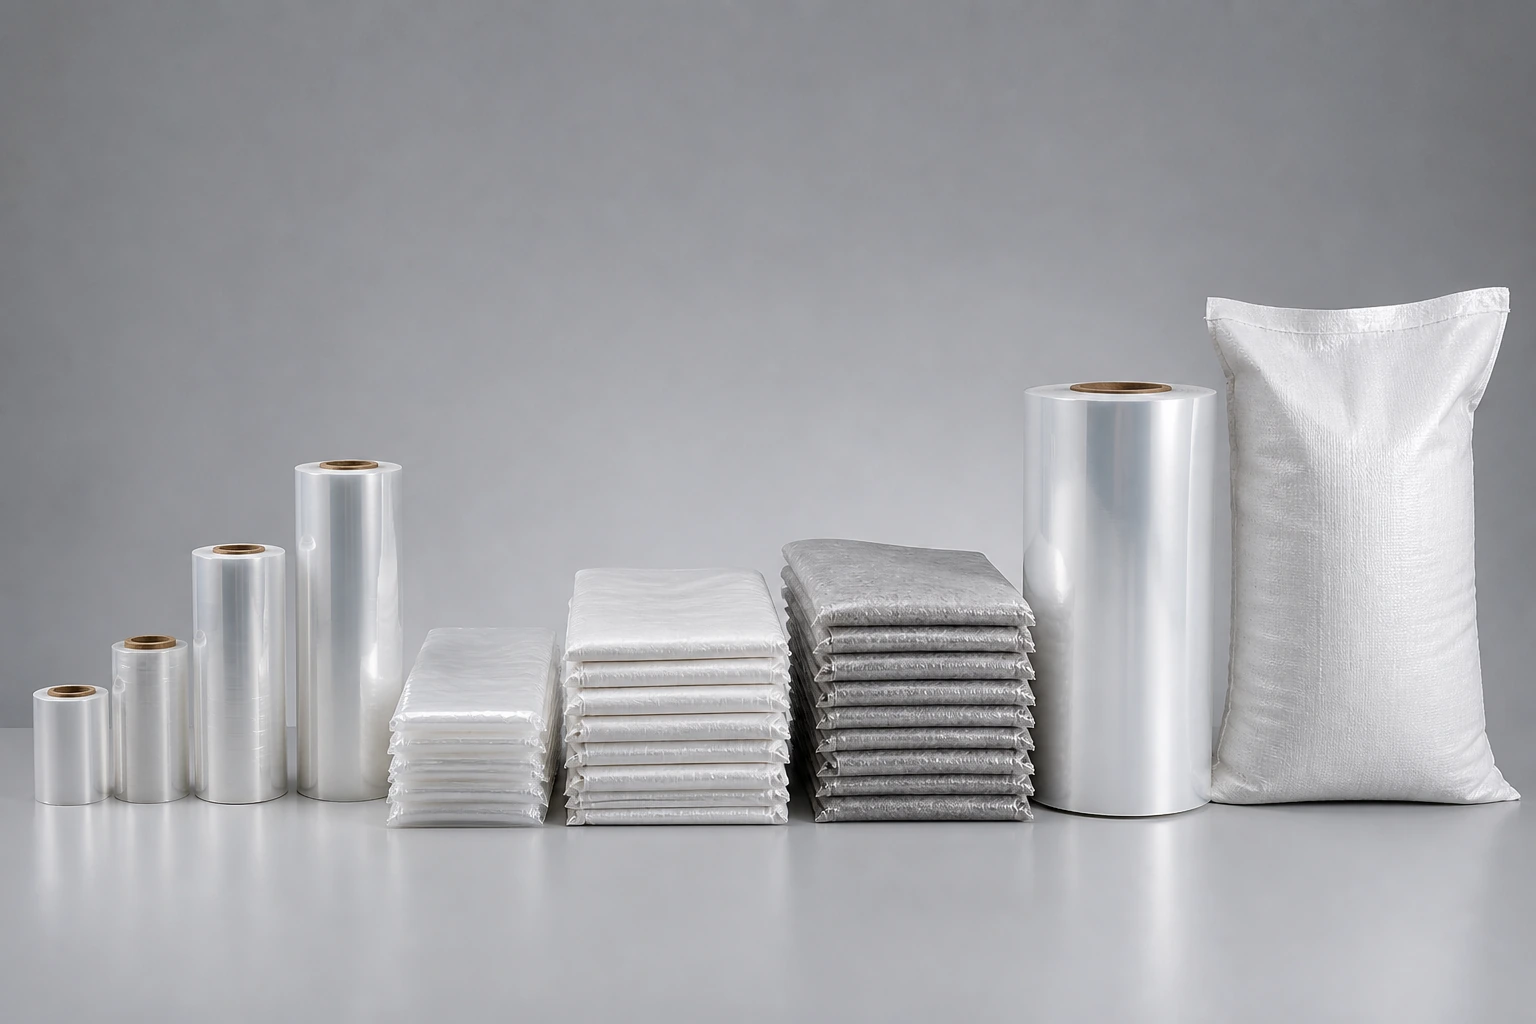
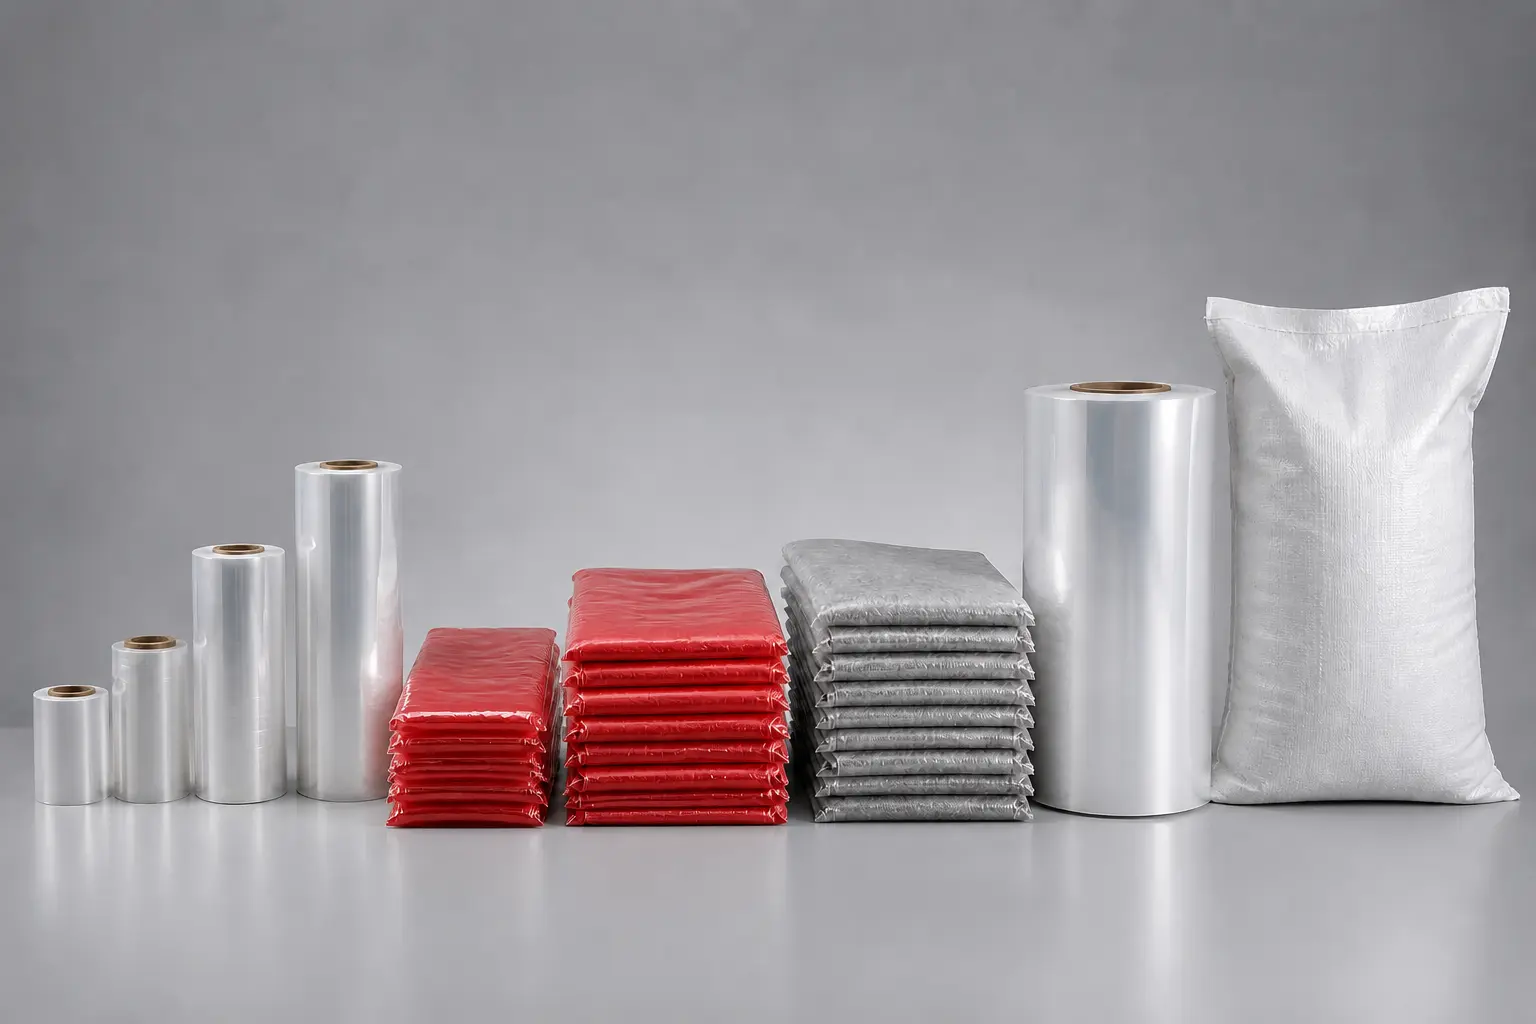
correções

Changed region(s): [[0.2188, 0.5312, 0.6875, 0.8125]]

diff --git a/app/page.tsx b/app/page.tsx
@@ -14,6 +14,11 @@ import { siteContent, type HeroSequenceManifest } from "../lib/site-content";
 
 const telHref = "tel:[phone redacted]";
 const mailHref = "mailto:[email redacted]";
+const primaryHeroImage = {
+  desktop: "/site-images/hero-section.webp",
+  mobile: "/site-images/hero-section-mobile.webp",
+  alt: "Extrusora industrial produzindo filme plástico azul em ambiente fabril.",
+};
 const heroQuoteSideImage = {
   src: "/site-images/hero-quote-side-industrial.webp?v=2",
   alt: "Conjunto premium de bobinas transparentes da linha de embalagens Plasmaster em fundo neutro.",
@@ -93,7 +98,85 @@ export default async function HomePage() {
       <SiteHeader items={navItems} ctaLabel={headerCtaLabel} />
 
       <main className="relative w-full max-w-full overflow-x-clip">
-        <section id="home" className="scroll-mt-28 pt-5 sm:pt-6 lg:pt-4">
+        <section id="home" className="scroll-mt-28">
+          <div className="relative left-1/2 min-h-[100svh] w-screen -translate-x-1/2 overflow-hidden bg-[var(--accent-deep)] text-white lg:min-h-[100dvh]">
+            <Image
+              src={primaryHeroImage.desktop}
+              alt={primaryHeroImage.alt}
+              fill
+              priority
+              sizes="(min-width: 1024px) 100vw, 0px"
+              className="hidden object-cover object-center lg:block"
+            />
+            <Image
+              src={primaryHeroImage.mobile}
+              alt=""
+              fill
+              priority
+              sizes="(max-width: 1023px) 100vw, 0px"
+              className="object-cover object-center lg:hidden"
+            />
+
+            <div className="pointer-events-none absolute inset-0 bg-[linear-gradient(90deg,rgba(7,11,18,0.9)_0%,rgba(7,11,18,0.68)_30%,rgba(7,11,18,0.2)_58%,rgba(7,11,18,0.42)_100%),linear-gradient(180deg,rgba(7,11,18,0.74)_0%,rgba(7,11,18,0.18)_38%,rgba(7,11,18,0.82)_100%)] lg:bg-[linear-gradient(90deg,rgba(7,11,18,0.92)_0%,rgba(7,11,18,0.7)_28%,rgba(7,11,18,0.18)_58%,rgba(7,11,18,0.34)_100%),linear-gradient(180deg,rgba(7,11,18,0.62)_0%,rgba(7,11,18,0.12)_40%,rgba(7,11,18,0.76)_100%)]" />
+            <div className="pointer-events-none absolute inset-0 bg-[linear-gradient(rgba(244,243,238,0.08)_1px,transparent_1px),linear-gradient(90deg,rgba(244,243,238,0.08)_1px,transparent_1px)] bg-[length:96px_96px] opacity-35" />
+
+            <div className="site-shell relative z-10 flex min-h-[100svh] flex-col justify-between py-6 sm:py-7 lg:min-h-[100dvh] lg:py-9">
+              <div className="flex items-center justify-between gap-5">
+                <Image
+                  src="/plasmaster-logo-hero.png"
+                  alt="Plasmaster"
+                  width={494}
+                  height={119}
+                  priority
+                  className="h-auto w-[174px] brightness-0 invert sm:w-[208px]"
+                />
+                <span className="hidden border border-white/16 px-4 py-2 text-[0.68rem] font-medium uppercase tracking-[0.26em] text-white/68 sm:inline-flex">
+                  Joinville/SC desde 2005
+                </span>
+              </div>
+
+              <div className="grid gap-8 pb-16 pt-20 sm:pt-24 lg:grid-cols-[minmax(0,0.92fr)_minmax(18rem,0.38fr)] lg:items-end lg:gap-10 lg:pb-16 lg:pt-24">
+                <div className="max-w-[48rem]">
+                  <p className="text-[0.72rem] font-medium uppercase tracking-[0.28em] text-[rgba(0,201,167,0.9)]">
+                    Soluções integradas de embalagens
+                  </p>
+                  <h1 className="mt-5 max-w-[13ch] text-5xl leading-[0.92] text-balance sm:text-6xl md:text-7xl lg:text-7xl xl:text-[5.75rem] 2xl:text-8xl">
+                    Embalagens plásticas para indústria e comércio.
+                  </h1>
+                  <p className="mt-6 max-w-[40rem] text-base leading-8 text-white/78 sm:text-lg lg:text-xl lg:leading-9">
+                    Plásticos flexíveis, proteção logística e embalagens rígidas em um único parceiro, com atendimento consultivo para indicar a linha certa para sua operação.
+                  </p>
+
+                  <div className="mt-8 flex flex-wrap items-center gap-3">
+                    <a
+                      href={hero.intro.primaryAction.href}
+                      className="solid-button min-w-[12.5rem] border border-[rgba(244,243,238,0.2)]"
+                    >
+                      {hero.intro.primaryAction.label}
+                    </a>
+                    <a
+                      href={hero.intro.secondaryAction.href}
+                      className="inline-flex min-h-[3.25rem] items-center justify-center rounded-full border border-white/34 px-5 py-3 text-sm font-medium text-white transition duration-500 ease-out hover:-translate-y-px hover:border-white/62 hover:bg-white/10 active:translate-y-px active:scale-[0.99]"
+                    >
+                      {hero.intro.secondaryAction.label}
+                    </a>
+                  </div>
+                </div>
+
+                <div className="hidden max-w-[28rem] border-t border-white/20 pt-5 lg:block lg:justify-self-end">
+                  <p className="text-sm uppercase tracking-[0.22em] text-white/52">
+                    O que entregamos
+                  </p>
+                  <ul className="mt-4 grid gap-3 text-[0.98rem] leading-7 text-white/82">
+                    <li>Plásticos flexíveis para rotinas industriais e comerciais.</li>
+                    <li>Materiais de proteção, fechamento e estabilidade logística.</li>
+                    <li>Embalagens rígidas para aplicações de maior exigência.</li>
+                  </ul>
+                </div>
+              </div>
+            </div>
+          </div>
+
           <div>
             <div className="relative lg:left-1/2 lg:right-1/2 lg:-mx-[50vw] lg:w-screen">
               <ScrollSequenceHero
@@ -121,7 +204,7 @@ export default async function HomePage() {
                 </div>
 
                 <div className="space-y-5">
-                  <h1 className="section-heading max-w-[12ch] text-balance">{hero.intro.title}</h1>
+                  <h2 className="section-heading max-w-[12ch] text-balance">{hero.intro.title}</h2>
                   <p className="section-copy">{hero.intro.description}</p>
                 </div>
 

diff --git a/components/scroll-sequence-hero.tsx b/components/scroll-sequence-hero.tsx
@@ -1,6 +1,7 @@
 "use client";
 
 import { type CSSProperties, useEffect, useRef, useState } from "react";
+import { renderBrandText } from "../lib/brand-format";
 import type {
   HeroAction,
   HeroBeat,
@@ -38,6 +39,8 @@ const MOBILE_SCROLL_VH = 320;
 const DESKTOP_FRAME_PREFETCH_RADIUS = 22;
 const MOBILE_FRAME_PREFETCH_RADIUS = 14;
 const FRAME_EVICT_BUFFER = 10;
+const CENTER_FRAME_ALIGNMENT = 0.5;
+const DESKTOP_FRAME_VERTICAL_ALIGNMENT = 0.35;
 
 function clamp(value: number, min: number, max: number) {
   return Math.min(max, Math.max(min, value));
@@ -52,6 +55,7 @@ function drawCoverFrame(
   image: HTMLImageElement,
   targetWidth: number,
   targetHeight: number,
+  verticalAlignment = CENTER_FRAME_ALIGNMENT,
 ) {
   const imageWidth = image.naturalWidth || image.width;
   const imageHeight = image.naturalHeight || image.height;
@@ -64,7 +68,7 @@ function drawCoverFrame(
   const drawWidth = imageWidth * scale;
   const drawHeight = imageHeight * scale;
   const offsetX = (targetWidth - drawWidth) / 2;
-  const offsetY = (targetHeight - drawHeight) / 2;
+  const offsetY = -Math.max(0, drawHeight - targetHeight) * clamp(verticalAlignment, 0, 1);
 
   ctx.drawImage(image, offsetX, offsetY, drawWidth, drawHeight);
 }
@@ -207,6 +211,9 @@ export default function ScrollSequenceHero({
       ? DESKTOP_FRAME_PREFETCH_RADIUS
       : MOBILE_FRAME_PREFETCH_RADIUS;
     const frameEvictRadius = framePrefetchRadius + FRAME_EVICT_BUFFER;
+    const frameVerticalAlignment = isDesktop
+      ? DESKTOP_FRAME_VERTICAL_ALIGNMENT
+      : CENTER_FRAME_ALIGNMENT;
 
     cacheRef.current = cache;
     currentFrameRef.current = -1;
@@ -265,7 +272,13 @@ export default function ScrollSequenceHero({
       currentFrameRef.current = index;
       const pixelRatio = Math.max(1, window.devicePixelRatio || 1);
       context.setTransform(pixelRatio, 0, 0, pixelRatio, 0, 0);
-      drawCoverFrame(context, image, canvas.width / pixelRatio, canvas.height / pixelRatio);
+      drawCoverFrame(
+        context,
+        image,
+        canvas.width / pixelRatio,
+        canvas.height / pixelRatio,
+        frameVerticalAlignment,
+      );
     };
 
     const renderFrameAtIndex = (index: number, force = false) => {
@@ -499,7 +512,8 @@ export default function ScrollSequenceHero({
           height: "100dvh",
         }
       : {
-          aspectRatio: `${activeVariant.width} / ${activeVariant.height}`,
+          minHeight: "100dvh",
+          height: "100dvh",
         }
   ) as CSSProperties;
 
@@ -524,8 +538,8 @@ export default function ScrollSequenceHero({
     : "block h-full w-full";
 
   const overlayClassName = isDesktop
-    ? "pointer-events-none absolute inset-0 bg-[radial-gradient(circle_at_50%_52%,rgba(0,201,167,0.08),transparent_24%),radial-gradient(circle_at_16%_22%,rgba(245,166,35,0.14),transparent_28%),linear-gradient(90deg,rgba(18,21,31,0.58)_0%,rgba(18,21,31,0.22)_30%,rgba(18,21,31,0.08)_54%,rgba(18,21,31,0.48)_100%),linear-gradient(180deg,rgba(18,21,31,0.18)_0%,rgba(18,21,31,0.1)_22%,rgba(18,21,31,0.12)_58%,rgba(18,21,31,0.64)_100%)]"
-    : "pointer-events-none absolute inset-0 bg-[radial-gradient(circle_at_18%_18%,rgba(0,201,167,0.18),transparent_26%),linear-gradient(180deg,rgba(18,21,31,0.04),rgba(18,21,31,0.48))]";
+    ? "pointer-events-none absolute inset-0 bg-[radial-gradient(ellipse_at_center,rgba(18,21,31,0)_36%,rgba(18,21,31,0.28)_68%,rgba(18,21,31,0.78)_100%),radial-gradient(circle_at_50%_52%,rgba(0,201,167,0.08),transparent_24%),radial-gradient(circle_at_16%_22%,rgba(245,166,35,0.14),transparent_28%),linear-gradient(90deg,rgba(18,21,31,0.58)_0%,rgba(18,21,31,0.22)_30%,rgba(18,21,31,0.08)_54%,rgba(18,21,31,0.48)_100%),linear-gradient(180deg,rgba(18,21,31,0.18)_0%,rgba(18,21,31,0.1)_22%,rgba(18,21,31,0.12)_58%,rgba(18,21,31,0.64)_100%)]"
+    : "pointer-events-none absolute inset-0 bg-[radial-gradient(ellipse_at_center,rgba(18,21,31,0)_34%,rgba(18,21,31,0.24)_68%,rgba(18,21,31,0.7)_100%),radial-gradient(circle_at_18%_18%,rgba(0,201,167,0.18),transparent_26%),linear-gradient(180deg,rgba(18,21,31,0.04),rgba(18,21,31,0.48))]";
 
   const beatCardClassName = isDesktop
     ? "pointer-events-none rounded-[1.85rem] border border-white/10 bg-[rgba(18,21,31,0.28)] p-5 text-white shadow-[inset_0_1px_0_rgba(244,243,238,0.12),0_28px_64px_-42px_rgba(18,21,31,0.75)] backdrop-blur-[18px] md:p-6"
@@ -555,7 +569,7 @@ export default function ScrollSequenceHero({
 
               <div className="pointer-events-none absolute inset-x-4 top-4 flex items-center justify-between gap-3 md:inset-x-8 md:top-7 xl:inset-x-[max(2rem,4vw)]">
                 <span className="rounded-full border border-white/12 bg-[rgba(18,21,31,0.18)] px-3 py-1.5 text-[0.68rem] uppercase tracking-[0.24em] text-white/72 backdrop-blur-[12px]">
-                  {badge}
+                  {renderBrandText(badge)}
                 </span>
               </div>
 
@@ -567,16 +581,16 @@ export default function ScrollSequenceHero({
                 >
                   <div className="flex items-center gap-4">
                     <span className="text-[0.7rem] font-medium uppercase tracking-[0.3em] text-white/72">
-                      {finalCard.eyebrow}
+                      {renderBrandText(finalCard.eyebrow)}
                     </span>
                   </div>
 
                   <div className="mt-6 space-y-4">
                     <h2 className="max-w-[13ch] text-[2.8rem] leading-[0.95] tracking-[-0.055em] text-white text-balance xl:text-[3.6rem]">
-                      {finalCard.title}
+                      {renderBrandText(finalCard.title)}
                     </h2>
                     <p className="max-w-[36ch] text-[0.98rem] leading-7 text-white/76 xl:text-[1.02rem]">
-                      {finalCard.body}
+                      {renderBrandText(finalCard.body)}
                     </p>
                   </div>
 
@@ -611,9 +625,9 @@ export default function ScrollSequenceHero({
                   className={`${beatPositions[index] ?? beatPositions[0]} ${beatCardClassName}`}
                   style={beatMotion(0, beat)}
                 >
-                  <p className={beatEyebrowClassName}>{beat.eyebrow}</p>
-                  <h2 className={beatTitleClassName}>{beat.title}</h2>
-                  <p className={beatBodyClassName}>{beat.body}</p>
+                  <p className={beatEyebrowClassName}>{renderBrandText(beat.eyebrow)}</p>
+                  <h2 className={beatTitleClassName}>{renderBrandText(beat.title)}</h2>
+                  <p className={beatBodyClassName}>{renderBrandText(beat.body)}</p>
                 </div>
               ))}
             </div>

diff --git a/lib/brand-format.tsx b/lib/brand-format.tsx
@@ -1,0 +1,19 @@
+import { Fragment, type ReactNode } from "react";
+
+const LEGACY_BRAND_NAME = "Plasmaster";
+export const BRAND_NAME = "PlasMASTER";
+
+export function renderBrandText(text: string): ReactNode {
+  const segments = text.split(LEGACY_BRAND_NAME);
+
+  if (segments.length === 1) {
+    return text;
+  }
+
+  return segments.map((segment, index) => (
+    <Fragment key={index}>
+      {index > 0 ? <strong>{BRAND_NAME}</strong> : null}
+      {segment}
+    </Fragment>
+  ));
+}

diff --git a/components/interest-chapter.tsx b/components/interest-chapter.tsx
@@ -1,4 +1,5 @@
 import Image from "next/image";
+import { renderBrandText } from "../lib/brand-format";
 import type { SiteContent } from "../lib/site-content";
 import { imageBlurData } from "../lib/image-blur-data";
 
@@ -168,7 +169,7 @@ export default function InterestChapter({
                 </span>
               ))}
             </h2>
-            <p className="section-copy max-w-[64ch]">{intro.description}</p>
+            <p className="section-copy max-w-[64ch]">{renderBrandText(intro.description)}</p>
           </div>
 
           <div className="overflow-hidden rounded-full border border-[rgba(244,243,238,0.9)] bg-[rgba(244,243,238,0.62)] p-2 shadow-[0_24px_80px_-48px_rgba(18,21,31,0.34)]">
@@ -203,7 +204,7 @@ export default function InterestChapter({
                 <h3 className="max-w-[17ch] text-[clamp(2.4rem,4vw,4.8rem)] leading-[0.92] tracking-[-0.065em] text-[var(--ink)] text-balance">
                   {about.title}
                 </h3>
-                <p className="section-copy max-w-[58ch]">{about.description}</p>
+                <p className="section-copy max-w-[58ch]">{renderBrandText(about.description)}</p>
               </div>
 
               <div className="grid gap-3 sm:grid-cols-3">
@@ -257,7 +258,7 @@ export default function InterestChapter({
                   {about.capacity.title}
                 </h3>
                 <p className="max-w-[36ch] text-sm leading-7 text-white/74">
-                  {about.capacity.description}
+                  {renderBrandText(about.capacity.description)}
                 </p>
               </div>
 
@@ -345,7 +346,7 @@ export default function InterestChapter({
             />
             <div className="relative space-y-6">
               <div className="space-y-3">
-                <span className="section-kicker">{differentials.eyebrow}</span>
+                <span className="section-kicker">{renderBrandText(differentials.eyebrow)}</span>
                 <h3 className="max-w-[15ch] text-[clamp(1.9rem,2.7vw,2.9rem)] leading-[0.96] tracking-[-0.05em] text-[var(--ink)] text-balance">
                   {differentials.title}
                 </h3>

diff --git a/components/action-chapter.tsx b/components/action-chapter.tsx
@@ -1,4 +1,5 @@
 import Image from "next/image";
+import { renderBrandText } from "../lib/brand-format";
 import type { SiteContent } from "../lib/site-content";
 import { imageBlurData } from "../lib/image-blur-data";
 import { ContactForm } from "./contact-form";
@@ -236,7 +237,7 @@ export default function ActionChapter({
         </div>
 
         <div className="site-shell border-t border-[var(--line)] py-5 text-xs text-[var(--ink-soft)]">
-          {footer.copyright}
+          {renderBrandText(footer.copyright)}
         </div>
       </footer>
     </>

diff --git a/components/desire-chapter.tsx b/components/desire-chapter.tsx
@@ -1,4 +1,5 @@
 import Image from "next/image";
+import { renderBrandText } from "../lib/brand-format";
 import type { SiteContent } from "../lib/site-content";
 import { imageBlurData } from "../lib/image-blur-data";
 
@@ -111,7 +112,7 @@ export default function DesireChapter({
         <div className="relative">
           <div data-desire-stack-pin className="space-y-8 lg:space-y-10">
             <div className="max-w-3xl space-y-4">
-              <span className="section-kicker">{differentials.eyebrow}</span>
+              <span className="section-kicker">{renderBrandText(differentials.eyebrow)}</span>
               <p className="max-w-[58ch] text-base leading-8 text-[var(--ink-muted)]">
                 {differentials.description}
               </p>

diff --git a/next.config.ts b/next.config.ts
@@ -14,6 +14,9 @@ const nextConfig: NextConfig = {
       {
         pathname: "/plasmaster-logo.png",
       },
+      {
+        pathname: "/plasmaster-logo-hero.png",
+      },
     ],
   },
   async headers() {